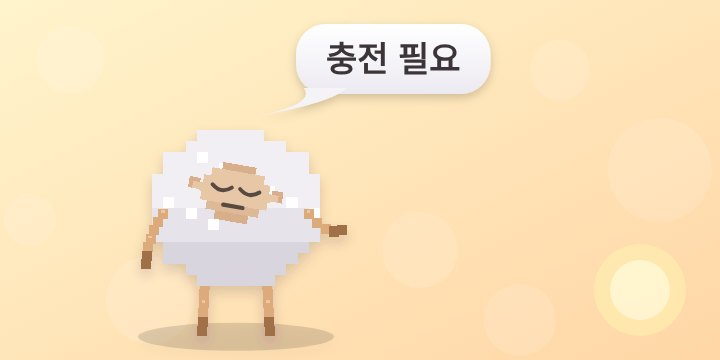
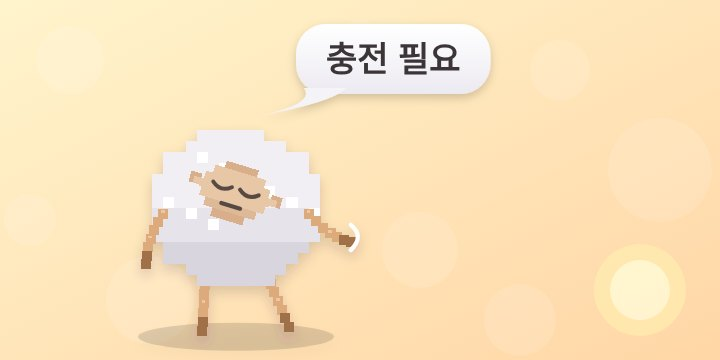
Refine sheep poses and square pointing hoof

diff --git a/tools/notify-art/art.js b/tools/notify-art/art.js
@@ -222,7 +222,7 @@ const POSES = {
     sheep({ rx: 92, ry: 42, fx: -62, fy: -10, frot: -14, expr: "vv" }) + limb([[50, 36], [92, -14], [112, 60]]) +
     limb([[-40, 50], [-84, 64], [-92, 6]]) + tapMarks(114, 62),
   // 너. 👉
-  point: () => shadow(0, 92) + legs() + hip(-1) + sheep({ expr: "^^,anger" }) + limb([[52, 4], [60, 0]], { tip: false, w: 11 }) + bigHoof(66, -2),
+  point: () => shadow(0, 92) + legs() + hip(-1) + sheep({ expr: "^^,anger" }) + limb([[52, 4], [68, -2], [86, -5]], { w: 12 }) + px(81, -10, 10, 10, C.tip),
   // 팔짱 끼고 발 까딱
   armscross: () => shadow(0, 92) + limb([[-22, 48], [-24, 88]]) + limb([[22, 48], [42, 84]]) + sheep({ expr: "vv" }) +
     limb([[-52, 4], [-14, 40], [34, 16]]) + limb([[52, 4], [12, 44], [-34, 20]]) + tapMarks(44, 88),
@@ -319,25 +319,25 @@ const POSES = {
     limb([[-52, 4], [-67, 24], [-76, 34]]) + limb([[52, 4], [77, 18], [86, 6]]) +
     bible(96, -4, 42, 54, 12),
   // 축 처진 양, 늦은 답장과 소소한 부탁을 표현하는 추가 포즈.
-  droop: () => shadow(0,92) + legs() + sheep({expr:"vv,flat",frot:12}) + hang(-1) + hang(1),
-  slump: () => shadow(0,92) + legs() + g("rotate(15)", sheep({expr:"closed,flat"}) + hang(-1) + hang(1)),
-  lean: () => shadow(0,92) + legs() + sheep({expr:"side,flat",frot:-15}) + hip(-1) + hang(1),
-  sighing: () => shadow(0,92) + legs() + sheep({expr:"vv,flat"}) + hang(-1) + hang(1) + sighCloud(85,-35),
-  waiting: () => shadow(0,100,80) + stool(0,66) + legs() + sheep({expr:"side,flat"}) + hang(-1) + hang(1),
-  dozing: () => shadow(0,92) + legs() + sheep({expr:"closed,flat",frot:20}) + hang(-1) + hang(1) + zzz(60,-20),
+  droop: () => shadow(0,92,82) + limb([[-22,48],[-42,86]]) + limb([[22,48],[42,86]]) + g("rotate(12)",sheep({rx:66,ry:50,expr:"vv,flat",frot:18}) + hang(-1) + hang(1)),
+  slump: () => shadow(0,80,110) + sheep({rx:94,ry:37,fx:-55,fy:0,expr:"closed,flat",frot:20}) + limb([[-50,30],[-90,60],[-105,65]]) + limb([[50,25],[88,48],[105,56]]),
+  lean: () => shadow(0,92,80) + limb([[-22,48],[-30,88]]) + limb([[22,48],[48,86]]) + g("rotate(-20)",sheep({expr:"side,flat"}) + hip(-1) + limb([[52,4],[75,20],[86,14]])),
+  sighing: () => shadow(0,92) + legs() + sheep({expr:"vv,flat",frot:8}) + limb([[-52,4],[-70,24],[-48,34]]) + limb([[52,4],[70,-14],[40,-30]]) + sighCloud(90,-38),
+  waiting: () => shadow(0,100,85) + stool(0,66) + limb([[-22,48],[-35,65],[-48,88]]) + limb([[22,48],[35,65],[48,88]]) + sheep({expr:"side,flat",frot:10}) + limb([[-52,4],[-22,40],[28,24]]) + limb([[52,4],[20,42],[-30,24]]) + tapMarks(48,88),
+  dozing: () => shadow(0,100,88) + stool(0,66) + limb([[-22,48],[-34,86]]) + limb([[22,48],[40,86]]) + g("rotate(18)",sheep({expr:"closed,flat"}) + hang(-1) + hang(1)) + zzz(70,-32),
   embarrassed: () => shadow(0,92) + legs() + sheep({expr:"vv,blush,sweat"}) + limb([[-52,4],[-60,-12],[-36,-24]]) + hang(1),
   wave_small: () => shadow(0,92) + legs() + sheep({expr:"vv,blush"}) + hang(-1) + limb([[52,4],[65,0],[68,-20]]),
-  wave_tired: () => shadow(0,92) + legs() + sheep({expr:"closed,flat",frot:8}) + hang(-1) + limb([[52,4],[64,20],[76,16]]),
+  wave_tired: () => shadow(0,92) + limb([[-22,48],[-24,88]]) + limb([[22,48],[38,85]]) + sheep({expr:"closed,flat",frot:15}) + hang(-1) + limb([[52,4],[68,22],[82,24]]) + line("M82,12 Q92,20 82,30", "#fff", 3),
   arms_open: () => shadow(0,92) + legs() + sheep({expr:"^^,blush"}) + limb([[-52,4],[-75,4],[-92,-8]]) + limb([[52,4],[75,4],[92,-8]]),
   shoulders_up: () => shadow(0,92) + legs() + sheep({expr:"side,flat"}) + limb([[-52,4],[-77,-6],[-72,-24]]) + limb([[52,4],[77,-6],[72,-24]]),
-  hands_behind: () => shadow(0,92) + legs() + limb([[-52,4],[-70,20],[-55,42]]) + limb([[52,4],[70,20],[55,42]]) + sheep({expr:"vv,blush"}),
+  hands_behind: () => shadow(0,92) + limb([[-22,48],[-38,86]]) + limb([[22,48],[32,88]]) + limb([[-52,4],[-78,18],[-50,45]]) + limb([[52,4],[78,18],[50,45]]) + sheep({expr:"vv,blush",frot:-10}),
   book_overhead: () => shadow(0,92) + legs() + sheep({expr:"^^,o"}) + limb([[-52,4],[-70,-30],[-42,-64]]) + limb([[52,4],[70,-30],[42,-64]]) + bible(0,-74,56,42),
   book_on_head: () => shadow(0,92) + legs() + sheep({expr:"vv,flat"}) + hang(-1) + hang(1) + bible(0,-61,68,28,-3),
   reading_seated: () => shadow(0,100,80) + stool(0,66) + legs() + sheep({expr:"closed"}) + bible(0,50,82,54,0,true) + limb([[-52,4],[-50,30],[-35,50]]) + limb([[52,4],[50,30],[35,50]]),
   book_rest: () => shadow(0,92) + legs() + sheep({expr:"vv,flat",frot:8}) + hang(-1) + limb([[52,4],[70,20],[80,38]]) + bible(91,43,40,52,12),
-  head_tilt: () => shadow(0,92) + legs() + sheep({expr:"side,pout",frot:22}) + hang(-1) + hip(1),
+  head_tilt: () => shadow(0,92) + limb([[-22,48],[-40,87]]) + limb([[22,48],[25,88]]) + sheep({expr:"side,pout",frot:28}) + limb([[-52,4],[-68,-10],[-46,-29]]) + hip(1),
   foot_tap: () => shadow(0,92) + limb([[-22,48],[-24,88]]) + limb([[22,48],[45,84]]) + sheep({expr:"side,flat"}) + hip(-1) + hip(1) + tapMarks(46,88),
-  crawl: () => shadow(0,75,110) + sheep({rx:85,ry:40,fx:-55,fy:-5,expr:"sad,pout"}) + limb([[-50,30],[-80,55],[-95,54]]) + limb([[45,30],[80,54],[98,54]]),
+  crawl: () => shadow(0,75,110) + limb([[40,28],[75,5],[94,-26]]) + sheep({rx:85,ry:40,fx:-55,fy:-5,expr:"sad,pout"}) + limb([[-50,30],[-80,55],[-98,54]]) + limb([[45,30],[80,54],[98,54]]) + tapMarks(100,55),
   tiny_bow: () => shadow(0,92) + legs() + g("rotate(18)",sheep({expr:"closed,blush"}) + limb([[-52,4],[-30,30],[-5,35]]) + limb([[52,4],[30,30],[5,35]])),
 };
 

diff --git a/sw.js b/sw.js
@@ -234,7 +234,7 @@ async function buildMessage() {
   const fill = (s) => s.replace(/\{portion\}/g, portion).replace(/\{streak\}/g, String(streak));
   // 메시지마다 양(🐑) 포즈 그림: icons/notify/<시간대>-<원래 순서>.jpg (안드로이드·PC 크롬/엣지에서 크게 보임, 아이폰은 표시 안 함)
   const rowIndex = MESSAGES[tier].indexOf(pool[idx]);
-  const image = pool[idx][5] || `icons/notify/${tier}-${rowIndex}.jpg?v=sheep-fifty-poses-20261028`;
+  const image = pool[idx][5] || `icons/notify/${tier}-${rowIndex}.jpg?v=sheep-fifty-varied-20261028`;
   return { title: fill(pool[idx][0]), body: fill(pool[idx][1]), image };
 }
 

diff --git a/js/features/reminder-admin.js b/js/features/reminder-admin.js
@@ -28,7 +28,7 @@ function reminderAdminLoadArt() {
   reminderAdminArtScript = new Promise((resolve, reject) => {
     const script = document.createElement("script");
     script.type = "module";
-    script.src = "tools/notify-art/art.js?v=reminder-stability-7";
+    script.src = "tools/notify-art/art.js?v=reminder-stability-8";
     script.onload = () => window.ReminderArt?.renderCard ? resolve(window.ReminderArt) : reject(new Error("양 그림 렌더러를 찾지 못했어요."));
     script.onerror = () => reject(new Error("양 그림 렌더러를 불러오지 못했어요."));
     document.head.append(script);

diff --git a/index.html b/index.html
@@ -79,7 +79,7 @@
   <script src="js/features/summary.js?v=10.10.0"></script>
   <script src="js/features/qt.js?v=10.10.0"></script>
   <script src="js/features/qtgraph.js?v=10.10.0"></script>
-  <script src="js/features/reminder-admin.js?v=10.10.0&rev=reminder-admin-stability-7"></script>
+  <script src="js/features/reminder-admin.js?v=10.10.0&rev=reminder-admin-stability-8"></script>
   <script src="js/features/stats.js?v=10.10.0&rev=admin-random-reminder-db-1"></script>
   <script src="js/features/export.js?v=10.10.0"></script>
   <script src="js/features/reminder.js?v=10.10.0"></script>
